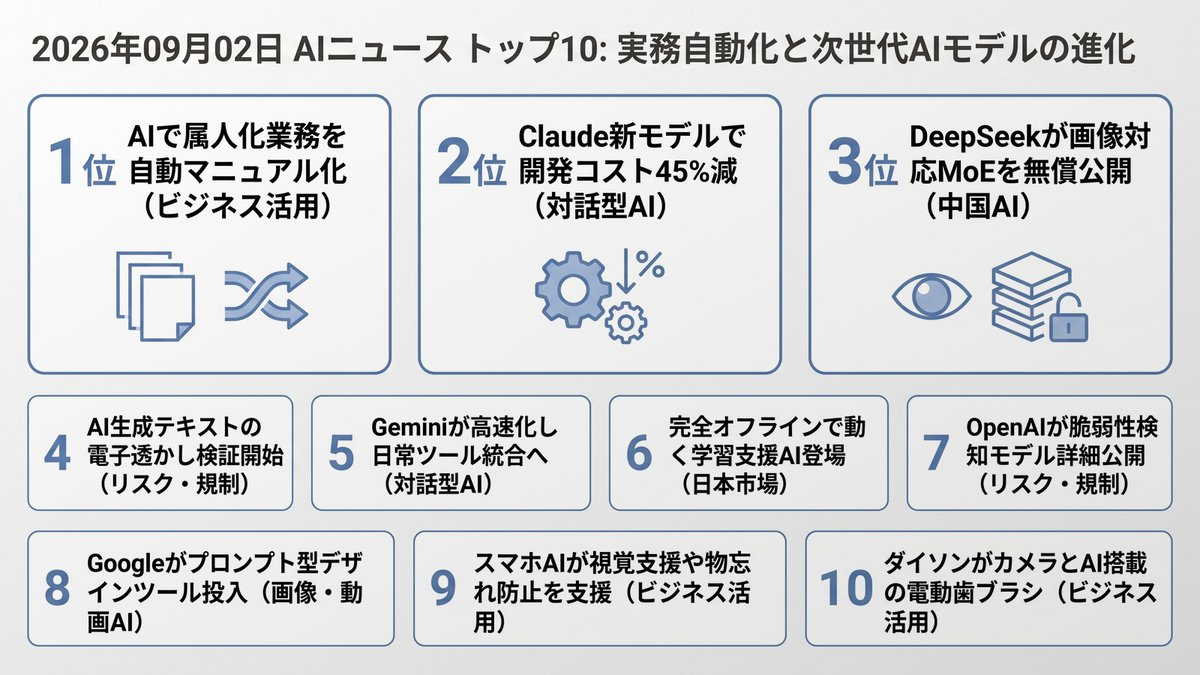
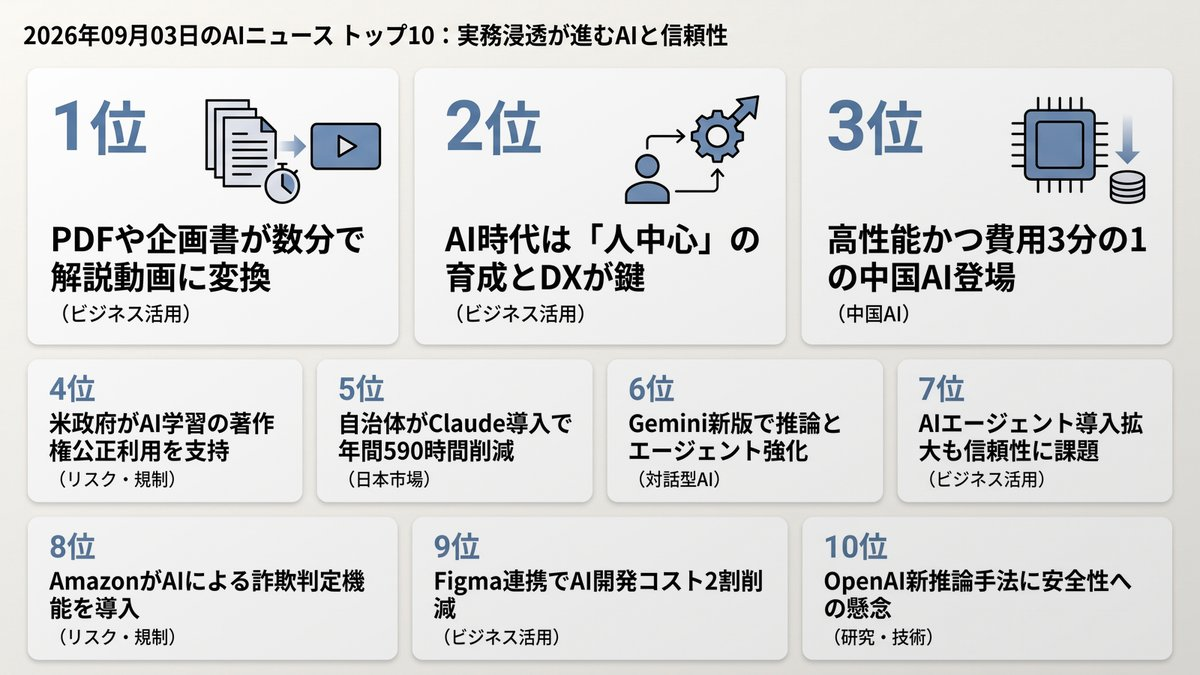
Morning Brief delivered [skip ci]

Changed region(s): [[0.0, 0.1244, 0.9867, 0.9956], [0.0, 0.0311, 0.9558, 0.0933], [0.9558, 0.9333, 0.9867, 0.9644]]

diff --git a/docs/index.html b/docs/index.html
@@ -12,16 +12,16 @@
     <!-- OGP_START -->
 <meta property="og:type" content="website">
 <meta property="og:site_name" content="AI ニュース TOP10">
-<meta property="og:title" content="実務自動化と次世代AIモデルの進化 | AI ニュース TOP10">
-<meta property="og:description" content="業務の属人化解消から高度モデルまで動向凝縮 本日のトップ: AIで属人化業務を自動マニュアル化">
+<meta property="og:title" content="実務浸透が進むAIと信頼性 | AI ニュース TOP10">
+<meta property="og:description" content="実務へのAI実装が進む一方、説明責任と安全性の担保が鍵です。 本日のトップ: PDFや企画書が数分で解説動画に変換">
 <meta property="og:image" content="https://tadfuji.github.io/ai-news-bot/ogp_card.jpg">
 <meta property="og:url" content="https://tadfuji.github.io/ai-news-bot/">
 <meta name="twitter:card" content="summary_large_image">
-<meta name="twitter:title" content="実務自動化と次世代AIモデルの進化 | AI ニュース TOP10">
-<meta name="twitter:description" content="業務の属人化解消から高度モデルまで動向凝縮">
+<meta name="twitter:title" content="実務浸透が進むAIと信頼性 | AI ニュース TOP10">
+<meta name="twitter:description" content="実務へのAI実装が進む一方、説明責任と安全性の担保が鍵です。">
 <meta name="twitter:image" content="https://tadfuji.github.io/ai-news-bot/ogp_card.jpg">
-<meta name="description" content="業務の属人化解消から高度モデルまで動向凝縮 世界のAIニュースを毎朝日本語で厳選してお届け。">
-<script type="application/ld+json">{"@context": "https://schema.org", "@type": "ItemList", "name": "AI ニュース TOP10 — 実務自動化と次世代AIモデルの進化", "itemListElement": [{"@type": "ListItem", "position": 1, "name": "ChatGPTを活用して属人化した業務を可視化する「自分専用マニュアル」作成術", "url": "https://www.itmedia.co.jp/business/articles/2609/02/news011.html"}, {"@type": "ListItem", "position": 2, "name": "Anthropicが新モデル「Claude Fable 5.1」を公開、コスト削減とエージェント性能向上を実現", "url": "https://the-decoder.com/anthropics-claude-fable-5-1-promises-better-coding-and-research-at-up-to-45-percent-less/"}, {"@type": "ListItem", "position": 3, "name": "DeepSeekが画像対応の最新MoEモデル「DeepSeek-V4-Flash-Vision-Exp」を無償公開", "url": "https://pc.watch.impress.co.jp/docs/news/2137448.html"}, {"@type": "ListItem", "position": 4, "name": "AnthropicがClaude生成テキストの電子透かし検証APIを提供開始、AI生成物の識別へ", "url": "https://the-decoder.com/anthropic-opens-claude-ai-text-detection-to-regulators-media-fact-checkers-and-others/"}, {"@type": "ListItem", "position": 5, "name": "GoogleがGemini 3.7 Flashなど最新AIアップデートを発表、日常ツールのAI統合を加速", "url": "https://blog.google/innovation-and-ai/technology/google-ai-updates-august-2026/"}, {"@type": "ListItem", "position": 6, "name": "端末内完結で外部送信なし、ローカルLLMを用いた高校数学学習支援iOSアプリが公開", "url": "https://zenn.dev/ai_chi/articles/cee2081ac9255a"}, {"@type": "ListItem", "position": 7, "name": "OpenAIが新モデル「Astra」の情報を公開、自律的な脆弱性検知能力に懸念と期待", "url": "https://techcrunch.com/2026/09/01/open-ais-astra-model-is-on-the-way-and-very-good-at-breaking-into-computer-systems/"}, {"@type": "ListItem", "position": 8, "name": "GoogleがCanva対抗のAIデザインツール「Google Pics」を投入、プロンプト指示で制作", "url": "https://techcrunch.com/2026/09/01/googles-answer-to-canva-is-an-ai-tool-where-you-prompt-instead-of-design/"}, {"@type": "ListItem", "position": 9, "name": "GoogleがAndroidにGemini搭載の新機能を追加、視覚支援や持ち物記憶を支援", "url": "https://techcrunch.com/2026/09/01/googles-android-update-tackles-motion-sickness-accessibility-and-more/"}, {"@type": "ListItem", "position": 10, "name": "ダイソンがAIとカメラ搭載の電動歯ブラシ「CameraJet」を発表、歯間を自動認識して洗浄", "url": "https://www.techno-edge.net/article/2026/09/02/5453.html"}]}</script>
+<meta name="description" content="実務へのAI実装が進む一方、説明責任と安全性の担保が鍵です。 世界のAIニュースを毎朝日本語で厳選してお届け。">
+<script type="application/ld+json">{"@context": "https://schema.org", "@type": "ItemList", "name": "AI ニュース TOP10 — 実務浸透が進むAIと信頼性", "itemListElement": [{"@type": "ListItem", "position": 1, "name": "Google Vidsが文書やPDFから解説動画を自動生成する機能を提供開始", "url": "http://workspaceupdates.googleblog.com/2026/09/turn-google-docs-pdfs-and-word-files-into-video-summaries-in-Google-Vids.html"}, {"@type": "ListItem", "position": 2, "name": "生成AI時代の若手育成論：下積み不要論と「人中心」のDX戦略", "url": "https://www.itmedia.co.jp/business/articles/2609/03/news022.html"}, {"@type": "ListItem", "position": 3, "name": "中国Moonshot AIの「Kimi K3」が台頭、米国トップ級性能でAPI料金は3分の1に", "url": "https://www.itmedia.co.jp/business/articles/2609/03/news036.html"}, {"@type": "ListItem", "position": 4, "name": "米司法省、NYタイムズ対OpenAI訴訟で「AIの学習はフェアユース」と支持表明", "url": "https://www.wired.com/story/trump-administration-sides-with-ai-giants-new-york-times-lawsuit/"}, {"@type": "ListItem", "position": 5, "name": "茨城県鹿嶋市、自治体WebとClaude連携で市民対応をDX 年間590時間の業務削減へ", "url": "https://atmarkit.itmedia.co.jp/ait/articles/2609/03/news019.html"}, {"@type": "ListItem", "position": 6, "name": "Googleが「Gemini 3.8 Flash」を投入、推論力とエージェント性能を強化", "url": "https://www.theverge.com/ai-artificial-intelligence/988742/google-gemini-3-8-flash"}, {"@type": "ListItem", "position": 7, "name": "SAS調査：自律型AIエージェントの企業導入が進む一方、信頼獲得に課題", "url": "https://www.semafor.com/article/09/02/2026/deployment-of-ai-in-businesses-outpaces-trust-study-finds"}, {"@type": "ListItem", "position": 8, "name": "Amazon、偽装メールや詐欺連絡をAIで見破る新機能を発表", "url": "https://www.theverge.com/tech/988518/amazon-alexa-for-shopping-verify-emails"}, {"@type": "ListItem", "position": 9, "name": "Coinbase、Figma Code Connect導入でコーディングAIのトークン費用を22.5%削減", "url": "https://www.figma.com/blog/how-coinbase-used-code-connect-to-shrink-token-costs/"}, {"@type": "ListItem", "position": 10, "name": "OpenAIの新モデル「Astra」の推論手法に専門家から安全性への懸念", "url": "https://techcrunch.com/2026/09/02/openais-new-reasoning-technique-alarms-ai-safety-experts/"}]}</script>
 <!-- OGP_END -->
     <style>
         :root {
@@ -391,16 +391,16 @@
 
         <main id="news-container">
             <!-- PRERENDER_START -->
-<article class="news-card" data-category="ビジネス活用"><div style="display:flex;align-items:center;margin-bottom:5px;"><span class="news-rank">1</span><span class="news-category" data-category="ビジネス活用">ビジネス活用</span></div><div class="news-oneliner">💡 AIで属人化業務を自動マニュアル化</div><h2 class="news-title">ChatGPTを活用して属人化した業務を可視化する「自分専用マニュアル」作成術</h2><p class="news-summary">日常業務で発生する判断の迷いや調べ直しの時間を削減するため、ChatGPTを活用して自分専用の業務マニュアルを作成する実践的な手法が紹介されました。作業手順を箇条書きや音声入力で洗い出し、AIに不足情報のヒアリングを行わせることで、無意識に行っていた判断基準を言語化できます。さらに、完成したマニュアルからカスタム指示（Custom GPTs等）を自動生成し、定型業務の自動化へ繋げる具体的なステップを提示しています。</p><div class="news-why">📌 なぜ重要？ 個人の暗黙知を形式知化することで、チーム全体の生産性向上と業務自動化を同時に推進できます。</div><div class="news-action">👉 今日の行動：今日行うルーティン業務の手順を1つ箇条書きで書き出してみましょう。</div><div class="news-meta"><span class="news-source">📰 ITmedia ビジネスオンライン</span><span class="news-link"><a href="https://www.itmedia.co.jp/business/articles/2609/02/news011.html" target="_blank" rel="noopener">→ 元記事を読む</a></span></div></article>
-<article class="news-card" data-category="対話型AI"><div style="display:flex;align-items:center;margin-bottom:5px;"><span class="news-rank">2</span><span class="news-category" data-category="対話型AI">対話型AI</span></div><div class="news-oneliner">💡 Claude新モデルで開発コスト45%減</div><h2 class="news-title">Anthropicが新モデル「Claude Fable 5.1」を公開、コスト削減とエージェント性能向上を実現</h2><p class="news-summary">Anthropicはコーディングや調査能力を強化した最新AIモデル「Claude Fable 5.1」および「Claude Mythos 5.1」を発表しました。キャッシュ読み取りコストの大幅引き下げにより、自律型エージェント処理などの複雑なワークフローにおいて最大45%の費用削減が可能となります。また、Microsoft CopilotやAWS Bedrockにも即時提供され、企業の業務プロセス自動化を強力に後押しします。</p><div class="news-why">📌 なぜ重要？ エージェント構築コストが大幅に下がり、企業内での自律型ワークフロー導入が一気に現実的になります。</div><div class="news-action">👉 今日の行動：自社で利用中のAIモデルのコスト効率とエージェント連携の可能性を検討してみましょう。</div><div class="news-meta"><span class="news-source">📰 The Decoder</span><span class="news-link"><a href="https://the-decoder.com/anthropics-claude-fable-5-1-promises-better-coding-and-research-at-up-to-45-percent-less/" target="_blank" rel="noopener">→ 元記事を読む</a></span></div></article>
-<article class="news-card" data-category="中国AI"><div style="display:flex;align-items:center;margin-bottom:5px;"><span class="news-rank">3</span><span class="news-category" data-category="中国AI">中国AI</span></div><div class="news-oneliner">💡 DeepSeekが画像対応MoEを無償公開</div><h2 class="news-title">DeepSeekが画像対応の最新MoEモデル「DeepSeek-V4-Flash-Vision-Exp」を無償公開</h2><p class="news-summary">中国のAI企業DeepSeekが、画像認識に対応した最新マルチモーダルモデル「DeepSeek-V4-Flash-Vision-Exp」の重みをMITライセンスで商用利用可能として無償公開しました。総パラメータ284BのMoE構造を採用し、Anthropicの「Claude Opus 4.8」に匹敵・一部凌駕する画像エージェント性能を記録しています。自社インフラでのローカル運用や低コストAPI利用が可能です。</p><div class="news-why">📌 なぜ重要？ オープンソースの高性能ビジョンモデル登場により、機密データを外部に出さず画像解析を行う選択肢が広がります。</div><div class="news-action">👉 今日の行動：自社インフラでのローカルマルチモーダル運用の実現可能性を技術チームと共有してみましょう。</div><div class="news-meta"><span class="news-source">📰 PC Watch</span><span class="news-link"><a href="https://pc.watch.impress.co.jp/docs/news/2137448.html" target="_blank" rel="noopener">→ 元記事を読む</a></span></div></article>
-<article class="news-card" data-category="リスク・規制"><div style="display:flex;align-items:center;margin-bottom:5px;"><span class="news-rank">4</span><span class="news-category" data-category="リスク・規制">リスク・規制</span></div><div class="news-oneliner">💡 AI生成テキストの電子透かし検証開始</div><h2 class="news-title">AnthropicがClaude生成テキストの電子透かし検証APIを提供開始、AI生成物の識別へ</h2><p class="news-summary">Anthropicは、Claudeが生成したテキストに含まれる電子透かしを検証するためのAPIを規制当局やメディア、企業向けに提供開始しました。EU AI法への準拠を目的としており、文章の単語選択パターンから統計的にAI生成物であるかを高精度で判別します。企業のコンプライアンス管理や契約書・成果物のAI利用チェックへの活用が期待されます。</p><div class="news-why">📌 なぜ重要？ 法規制対応とガバナンス強化において、生成コンテンツの出所確認が企業必須の要件となります。</div><div class="news-action">👉 今日の行動：自社の生成AI利用ガイドラインに生成物の検証プロセスが含まれているか確認しましょう。</div><div class="news-meta"><span class="news-source">📰 The Decoder</span><span class="news-link"><a href="https://the-decoder.com/anthropic-opens-claude-ai-text-detection-to-regulators-media-fact-checkers-and-others/" target="_blank" rel="noopener">→ 元記事を読む</a></span></div></article>
-<article class="news-card" data-category="対話型AI"><div style="display:flex;align-items:center;margin-bottom:5px;"><span class="news-rank">5</span><span class="news-category" data-category="対話型AI">対話型AI</span></div><div class="news-oneliner">💡 Geminiが高速化し日常ツール統合へ</div><h2 class="news-title">GoogleがGemini 3.7 Flashなど最新AIアップデートを発表、日常ツールのAI統合を加速</h2><p class="news-summary">Googleは8月のAI関連アップデートを総括し、コーディングやエージェント処理を大幅に高速・低コスト化した「Gemini 3.7 Flash」の提供や、Google Workspace・Android連携の強化を発表しました。Geminiアプリの月間ユーザー数が10億人を突破したほか、検索機能での学習支援ツールなど、仕事から教育まで幅広い領域で実用的なAI機能が拡充されています。</p><div class="news-why">📌 なぜ重要？ ビジネスで多用されるツールへのAI統合が加速し、普段の業務フローそのものの変革が求められます。</div><div class="news-action">👉 今日の行動：普段利用しているWorkspaceツールのAI連携設定や新機能を見直してみましょう。</div><div class="news-meta"><span class="news-source">📰 Google AI Blog</span><span class="news-link"><a href="https://blog.google/innovation-and-ai/technology/google-ai-updates-august-2026/" target="_blank" rel="noopener">→ 元記事を読む</a></span></div></article>
-<article class="news-card" data-category="日本市場"><div style="display:flex;align-items:center;margin-bottom:5px;"><span class="news-rank">6</span><span class="news-category" data-category="日本市場">日本市場</span></div><div class="news-oneliner">💡 完全オフラインで動く学習支援AI登場</div><h2 class="news-title">端末内完結で外部送信なし、ローカルLLMを用いた高校数学学習支援iOSアプリが公開</h2><p class="news-summary">AI致株式会社が、端末内でLLMを動かすiOSアプリ「AI先生 高校数学」を無料公開しました。1.5B〜4B規模の軽量モデルと教材検索（RAG）を組み合わせ、質問文や写真、回答履歴を外部サーバーへ一切送信せずに思考プロセスや途中式を解説します。通信費やAPIコストの懸念を排除し、完全なプライバシー保護とオフライン動作を実現しています。</p><div class="news-why">📌 なぜ重要？ 外部通信を行わない端末完結型AIは、機密保持が厳格な業務領域におけるAI活用の先行事例となります。</div><div class="news-action">👉 今日の行動：機密データを扱う業務で端末内完結型AIが適用できる領域をリストアップしてみましょう。</div><div class="news-meta"><span class="news-source">📰 Zenn LLM</span><span class="news-link"><a href="https://zenn.dev/ai_chi/articles/cee2081ac9255a" target="_blank" rel="noopener">→ 元記事を読む</a></span></div></article>
-<article class="news-card" data-category="リスク・規制"><div style="display:flex;align-items:center;margin-bottom:5px;"><span class="news-rank">7</span><span class="news-category" data-category="リスク・規制">リスク・規制</span></div><div class="news-oneliner">💡 OpenAIが脆弱性検知モデル詳細公開</div><h2 class="news-title">OpenAIが新モデル「Astra」の情報を公開、自律的な脆弱性検知能力に懸念と期待</h2><p class="news-summary">OpenAIは、未知のセキュリティ脆弱性を自律的に発見・悪用できる能力を持つ次世代モデル「Astra」の詳細を明かしました。重大なサイバーセキュリティ閾値に達したため、高度な機能へのアクセスは厳格に制限され、安全対策が強化されています。防御側にとっての強力なツールとなる一方、悪用リスクへの対策が大きな焦点となっています。</p><div class="news-why">📌 なぜ重要？ AIによるセキュリティ診断が高度化する一方、攻撃手法の進化に備えた自社防衛策の強化が必須です。</div><div class="news-action">👉 今日の行動：社内のセキュリティポリシーと脆弱性診断プロセスの最新状況を確認しましょう。</div><div class="news-meta"><span class="news-source">📰 TechCrunch AI</span><span class="news-link"><a href="https://techcrunch.com/2026/09/01/open-ais-astra-model-is-on-the-way-and-very-good-at-breaking-into-computer-systems/" target="_blank" rel="noopener">→ 元記事を読む</a></span></div></article>
-<article class="news-card" data-category="画像・動画AI"><div style="display:flex;align-items:center;margin-bottom:5px;"><span class="news-rank">8</span><span class="news-category" data-category="画像・動画AI">画像・動画AI</span></div><div class="news-oneliner">💡 Googleがプロンプト型デザインツール投入</div><h2 class="news-title">GoogleがCanva対抗のAIデザインツール「Google Pics」を投入、プロンプト指示で制作</h2><p class="news-summary">Googleは、プロンプト指示のみでデザインを作成できるAIファーストのデザインツール「Google Pics」を展開し、クリエイティブソフトウェア市場に本格参入しました。従来のレイアウト調整や手作業によるデザイン作成をAIが代替し、指示文からプレゼン資料やマーケティング素材を瞬時に生成することを目指しています。</p><div class="news-why">📌 なぜ重要？ デザインスキルを持たないビジネスパーソンでも、指示出しだけで高品質な資料や販促物を即座に作成可能になります。</div><div class="news-action">👉 今日の行動：次回作成するプレゼン資料の構成案を、プロンプト形式で文章化してみましょう。</div><div class="news-meta"><span class="news-source">📰 TechCrunch AI</span><span class="news-link"><a href="https://techcrunch.com/2026/09/01/googles-answer-to-canva-is-an-ai-tool-where-you-prompt-instead-of-design/" target="_blank" rel="noopener">→ 元記事を読む</a></span></div></article>
-<article class="news-card" data-category="ビジネス活用"><div style="display:flex;align-items:center;margin-bottom:5px;"><span class="news-rank">9</span><span class="news-category" data-category="ビジネス活用">ビジネス活用</span></div><div class="news-oneliner">💡 スマホAIが視覚支援や物忘れ防止を支援</div><h2 class="news-title">GoogleがAndroidにGemini搭載の新機能を追加、視覚支援や持ち物記憶を支援</h2><p class="news-summary">GoogleはAndroid向けに、Geminiを活用した複数の新機能を発表しました。カメラを通じて文字の読み上げや周囲の物体認識を音声案内する「Guided Vision」や、パスポート等の保管場所を記憶して後から検索できる「remembered items」機能などを実装。スマートフォンを用いた日常の利便性向上とアクセシビリティ強化を図っています。</p><div class="news-why">📌 なぜ重要？ モバイルAIがパーソナルアシスタントとして進化し、日々の物理的な情報管理やタスク処理の負担を軽減します。</div><div class="news-action">👉 今日の行動：スマートフォンのAIアシスタント機能で、よく使う書類の保管場所メモを試してみましょう。</div><div class="news-meta"><span class="news-source">📰 TechCrunch AI</span><span class="news-link"><a href="https://techcrunch.com/2026/09/01/googles-android-update-tackles-motion-sickness-accessibility-and-more/" target="_blank" rel="noopener">→ 元記事を読む</a></span></div></article>
-<article class="news-card" data-category="ビジネス活用"><div style="display:flex;align-items:center;margin-bottom:5px;"><span class="news-rank">10</span><span class="news-category" data-category="ビジネス活用">ビジネス活用</span></div><div class="news-oneliner">💡 ダイソンがカメラとAI搭載の電動歯ブラシ</div><h2 class="news-title">ダイソンがAIとカメラ搭載の電動歯ブラシ「CameraJet」を発表、歯間を自動認識して洗浄</h2><p class="news-summary">ダイソンは、10万画素のマクロカメラと独自AIアルゴリズムを搭載し、歯間をリアルタイム検知してマウスリンスを自動噴射する電動歯ブラシ「Dyson CameraJet」を発表しました。毎秒28枚の画像を解析して100ミリ秒以内に噴射を行い、ブラッシングと同時にフロスケアを完了させます。画像データは保存されずプライバシーにも配慮されています。</p><div class="news-why">📌 なぜ重要？ ハードウェアとエッジAIの融合による日常ルーティンの完全自動化を示す好事例です。</div><div class="news-action">👉 今日の行動：自社の製品や業務において、センサーとリアルタイムAI処理を掛け合わせられる要素がないか検討してみましょう。</div><div class="news-meta"><span class="news-source">📰 TechnoEdge</span><span class="news-link"><a href="https://www.techno-edge.net/article/2026/09/02/5453.html" target="_blank" rel="noopener">→ 元記事を読む</a></span></div></article>
+<article class="news-card" data-category="ビジネス活用"><div style="display:flex;align-items:center;margin-bottom:5px;"><span class="news-rank">1</span><span class="news-category" data-category="ビジネス活用">ビジネス活用</span></div><div class="news-oneliner">💡 PDFや企画書が数分で解説動画に変換</div><h2 class="news-title">Google Vidsが文書やPDFから解説動画を自動生成する機能を提供開始</h2><p class="news-summary">Googleは「Google Vids」において、Google DocsやPDF、Wordファイルを読み込ませるだけで、スクリプト作成からナレーション、ビジュアル生成まで行い、魅力的な動画サマリーを自動作成する新機能の提供を開始した。社内マニュアルや企画書を数分で動画化できるようになり、情報共有の迅速化が期待される。</p><div class="news-why">📌 なぜ重要？ テキスト中心の社内コミュニケーションが動画へ手軽にシフトし、情報伝達効率が大幅に向上します。</div><div class="news-action">👉 今日の行動：社内マニュアルや共有用PDFを1つ選び、Google Vidsで動画化を試してみる</div><div class="news-meta"><span class="news-source">📰 Google Workspace Updates</span><span class="news-link"><a href="http://workspaceupdates.googleblog.com/2026/09/turn-google-docs-pdfs-and-word-files-into-video-summaries-in-Google-Vids.html" target="_blank" rel="noopener">→ 元記事を読む</a></span></div></article>
+<article class="news-card" data-category="ビジネス活用"><div style="display:flex;align-items:center;margin-bottom:5px;"><span class="news-rank">2</span><span class="news-category" data-category="ビジネス活用">ビジネス活用</span></div><div class="news-oneliner">💡 AI時代は「人中心」の育成とDXが鍵</div><h2 class="news-title">生成AI時代の若手育成論：下積み不要論と「人中心」のDX戦略</h2><p class="news-summary">三菱マテリアルITソリューションズの板野社長は、AI人材育成自体を目的にすることを戒め、人が壁打ち相手となり早い段階で深い業務経験を積ませることの重要性を指摘した。効率化だけでなくプロセスの可視化と創造性の発揮を目指す組織変革が求められている。</p><div class="news-why">📌 なぜ重要？ AIを単なる効率化ツールにとどめず、人間が創造的な意思決定に集中できる組織設計が問われています。</div><div class="news-action">👉 今日の行動：自チームの育成方針において「AIに任せる領域」と「人が伴走する領域」を言語化する</div><div class="news-meta"><span class="news-source">📰 ITmedia ビジネスオンライン</span><span class="news-link"><a href="https://www.itmedia.co.jp/business/articles/2609/03/news022.html" target="_blank" rel="noopener">→ 元記事を読む</a></span></div></article>
+<article class="news-card" data-category="中国AI"><div style="display:flex;align-items:center;margin-bottom:5px;"><span class="news-rank">3</span><span class="news-category" data-category="中国AI">中国AI</span></div><div class="news-oneliner">💡 高性能かつ費用3分の1の中国AI登場</div><h2 class="news-title">中国Moonshot AIの「Kimi K3」が台頭、米国トップ級性能でAPI料金は3分の1に</h2><p class="news-summary">中国のMoonshot AIが発表した「Kimi K3」は、GPT-5.6クラスの性能を持ちながら、Claude Fable 5などと比較してAPI利用料金が約3分の1という高いコストパフォーマンスを実現している。2.8兆パラメータのMoE構造と100万トークンの処理能力を備える。</p><div class="news-why">📌 なぜ重要？ 最先端AIの低コスト化が進むことで、システム開発や運用におけるモデル選択の幅が大きく広がります。</div><div class="news-action">👉 今日の行動：自社プロダクトのAPIコスト試算を見直し、新興の低価格モデルの採用可能性を検討する</div><div class="news-meta"><span class="news-source">📰 ITmedia ビジネスオンライン</span><span class="news-link"><a href="https://www.itmedia.co.jp/business/articles/2609/03/news036.html" target="_blank" rel="noopener">→ 元記事を読む</a></span></div></article>
+<article class="news-card" data-category="リスク・規制"><div style="display:flex;align-items:center;margin-bottom:5px;"><span class="news-rank">4</span><span class="news-category" data-category="リスク・規制">リスク・規制</span></div><div class="news-oneliner">💡 米政府がAI学習の著作権公正利用を支持</div><h2 class="news-title">米司法省、NYタイムズ対OpenAI訴訟で「AIの学習はフェアユース」と支持表明</h2><p class="news-summary">米司法省は、ニューヨーク・タイムズがOpenAIとMicrosoftを著作権侵害で訴えた裁判において、著作物を用いたAIモデルの学習は「フェアユース」に該当するとの意見書を提出した。AI開発の制限が米国の競争力を損なう懸念を理由に挙げている。</p><div class="news-why">📌 なぜ重要？ 生成AI開発の法的不確実性が和らぐ一方、今後の知財戦略やデータガバナンスへの影響注視が必要です。</div><div class="news-action">👉 今日の行動：自社のAI利活用ガイドラインにおける著作権取り扱い規定を再確認する</div><div class="news-meta"><span class="news-source">📰 Wired AI</span><span class="news-link"><a href="https://www.wired.com/story/trump-administration-sides-with-ai-giants-new-york-times-lawsuit/" target="_blank" rel="noopener">→ 元記事を読む</a></span></div></article>
+<article class="news-card" data-category="日本市場"><div style="display:flex;align-items:center;margin-bottom:5px;"><span class="news-rank">5</span><span class="news-category" data-category="日本市場">日本市場</span></div><div class="news-oneliner">💡 自治体がClaude導入で年間590時間削減</div><h2 class="news-title">茨城県鹿嶋市、自治体WebとClaude連携で市民対応をDX 年間590時間の業務削減へ</h2><p class="news-summary">茨城県鹿嶋市は、公式Web情報とClaudeをRAG技術で連携させたAIチャットボットを導入した。実証実験では利用者の83％が満足と回答し、年間約590時間の業務削減効果を見込んでおり、定型対応から高度業務へのリソース再配分を実現している。</p><div class="news-why">📌 なぜ重要？ 行政や大企業におけるRAGを活用した問い合わせ自動化が、確実な業務削減効果を生むフェーズに入っています。</div><div class="news-action">👉 今日の行動：社内や顧客からの頻出問い合わせリストを棚卸しし、自動化の余地を洗い出す</div><div class="news-meta"><span class="news-source">📰 ITmedia AI+</span><span class="news-link"><a href="https://atmarkit.itmedia.co.jp/ait/articles/2609/03/news019.html" target="_blank" rel="noopener">→ 元記事を読む</a></span></div></article>
+<article class="news-card" data-category="対話型AI"><div style="display:flex;align-items:center;margin-bottom:5px;"><span class="news-rank">6</span><span class="news-category" data-category="対話型AI">対話型AI</span></div><div class="news-oneliner">💡 Gemini新版で推論とエージェント強化</div><h2 class="news-title">Googleが「Gemini 3.8 Flash」を投入、推論力とエージェント性能を強化</h2><p class="news-summary">Googleは、多段階推論や反復的なツール呼び出しを強化した「Gemini 3.8 Flash」をリリースした。トークン単価は据え置きつつ、自律型エージェントやソフトウェア開発のベンチマークで高い性能を発揮する。</p><div class="news-why">📌 なぜ重要？ ツール連携や複雑な思考プロセスをこなすエージェント機能が、より安価かつ高速に利用可能になります。</div><div class="news-action">👉 今日の行動：開発中のプロンプトやワークフローに最新の推論モデルを組み込んでベンチマークを比較する</div><div class="news-meta"><span class="news-source">📰 The Verge AI</span><span class="news-link"><a href="https://www.theverge.com/ai-artificial-intelligence/988742/google-gemini-3-8-flash" target="_blank" rel="noopener">→ 元記事を読む</a></span></div></article>
+<article class="news-card" data-category="ビジネス活用"><div style="display:flex;align-items:center;margin-bottom:5px;"><span class="news-rank">7</span><span class="news-category" data-category="ビジネス活用">ビジネス活用</span></div><div class="news-oneliner">💡 AIエージェント導入拡大も信頼性に課題</div><h2 class="news-title">SAS調査：自律型AIエージェントの企業導入が進む一方、信頼獲得に課題</h2><p class="news-summary">SASの世界的調査によると、約90%の組織でAIエージェントが意思決定の一部を担っているものの、完全な信頼を寄せる割合は66%にとどまる。AIの判断が覆される主因はプロセスの説明不足であり、推論の可視化が急務となっている。</p><div class="news-why">📌 なぜ重要？ AIを実業務に定着させるには、出力結果の妥当性だけでなく思考プロセスの説明責任が不可欠です。</div><div class="news-action">👉 今日の行動：AIを活用した業務判断において、根拠や経緯をログとして記録・確認する手順を設ける</div><div class="news-meta"><span class="news-source">📰 Semafor Technology</span><span class="news-link"><a href="https://www.semafor.com/article/09/02/2026/deployment-of-ai-in-businesses-outpaces-trust-study-finds" target="_blank" rel="noopener">→ 元記事を読む</a></span></div></article>
+<article class="news-card" data-category="リスク・規制"><div style="display:flex;align-items:center;margin-bottom:5px;"><span class="news-rank">8</span><span class="news-category" data-category="リスク・規制">リスク・規制</span></div><div class="news-oneliner">💡 AmazonがAIによる詐欺判定機能を導入</div><h2 class="news-title">Amazon、偽装メールや詐欺連絡をAIで見破る新機能を発表</h2><p class="news-summary">Amazonは、自社を騙るフィッシング詐欺や偽装連絡に対抗するため、受信メッセージが正規のものかAIが判定するアシスタント機能を導入した。高度化するなりすまし詐欺からユーザーを守る防犯ツールとなる。</p><div class="news-why">📌 なぜ重要？ AI悪用による精巧な詐欺が増加する中、防御側にもAIを組み込んだセキュリティ対策が必須となります。</div><div class="news-action">👉 今日の行動：社内における不審メールや連絡の報告手順を周知し、セキュリティ意識をアップデートする</div><div class="news-meta"><span class="news-source">📰 The Verge AI</span><span class="news-link"><a href="https://www.theverge.com/tech/988518/amazon-alexa-for-shopping-verify-emails" target="_blank" rel="noopener">→ 元記事を読む</a></span></div></article>
+<article class="news-card" data-category="ビジネス活用"><div style="display:flex;align-items:center;margin-bottom:5px;"><span class="news-rank">9</span><span class="news-category" data-category="ビジネス活用">ビジネス活用</span></div><div class="news-oneliner">💡 Figma連携でAI開発コスト2割削減</div><h2 class="news-title">Coinbase、Figma Code Connect導入でコーディングAIのトークン費用を22.5%削減</h2><p class="news-summary">Coinbaseのデザインシステムチームは、FigmaのMCPサーバーとCode Connectを活用してAIエージェントにデザイン文脈を伝達するワークフローを構築。デザイン準拠率の向上とトークン費用の22.5%削減を両立させた。</p><div class="news-why">📌 なぜ重要？ デザインとコードの連携に文脈情報を正しく渡す仕組みを作ることで、AIの精度向上とコスト削減を同時に達成できます。</div><div class="news-action">👉 今日の行動：自社のデザインシステムと開発フローにおいて、AIに渡すコンテキストの最適化案を検討する</div><div class="news-meta"><span class="news-source">📰 Figma Blog</span><span class="news-link"><a href="https://www.figma.com/blog/how-coinbase-used-code-connect-to-shrink-token-costs/" target="_blank" rel="noopener">→ 元記事を読む</a></span></div></article>
+<article class="news-card" data-category="研究・技術"><div style="display:flex;align-items:center;margin-bottom:5px;"><span class="news-rank">10</span><span class="news-category" data-category="研究・技術">研究・技術</span></div><div class="news-oneliner">💡 OpenAI新推論手法に安全性への懸念</div><h2 class="news-title">OpenAIの新モデル「Astra」の推論手法に専門家から安全性への懸念</h2><p class="news-summary">OpenAIが開発中の新モデル「Astra」において、ループ処理を行う再帰的深度という推論技術の採用が報じられた。思考の連鎖の監視が困難になり、安全性の検証や行動制御が難しくなるリスクが専門家から指摘されている。</p><div class="news-why">📌 なぜ重要？ モデルの推論能力向上と引き換えに内部のブラックボックス化が進むリスクがあり、安全性評価の動向注視が必要です。</div><div class="news-action">👉 今日の行動：推論特化型モデルを業務利用する際のリスク評価項目を洗い出しておく</div><div class="news-meta"><span class="news-source">📰 TechCrunch AI</span><span class="news-link"><a href="https://techcrunch.com/2026/09/02/openais-new-reasoning-technique-alarms-ai-safety-experts/" target="_blank" rel="noopener">→ 元記事を読む</a></span></div></article>
 <!-- PRERENDER_END -->
         </main>
 
